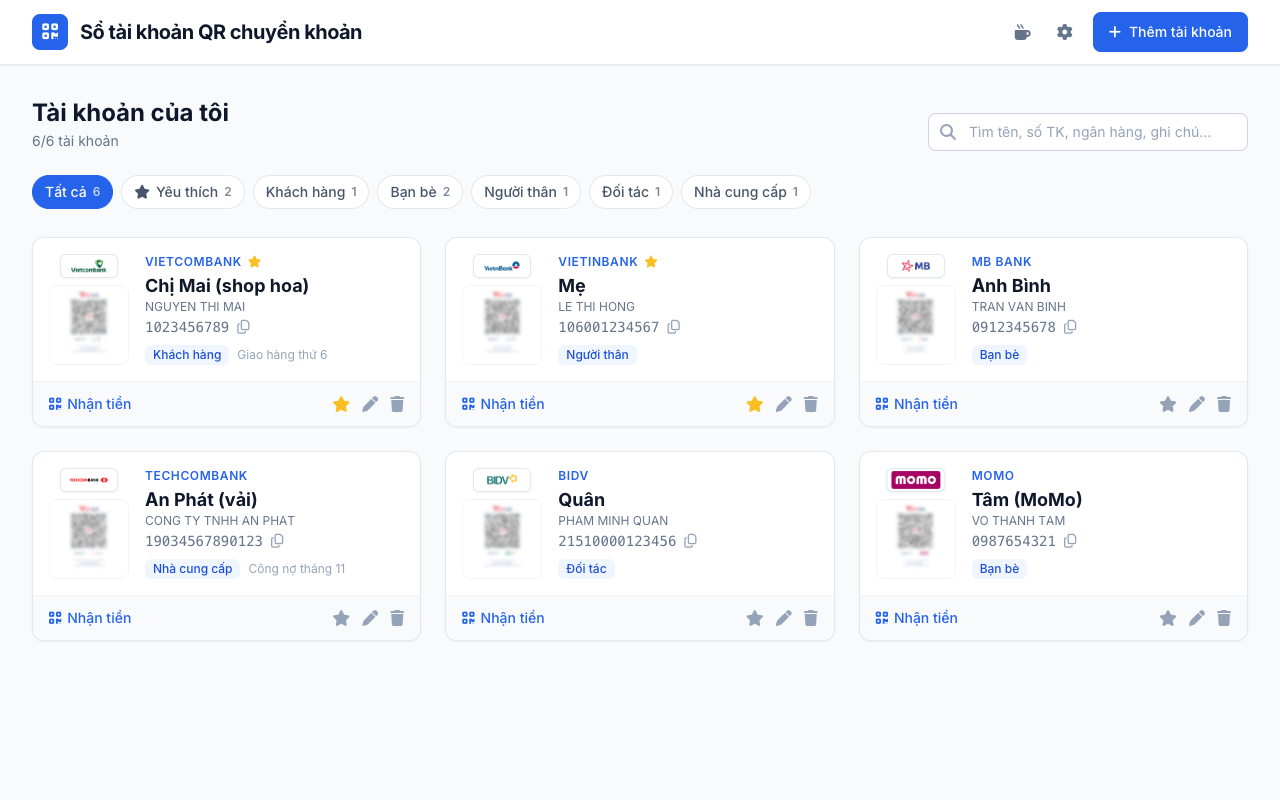
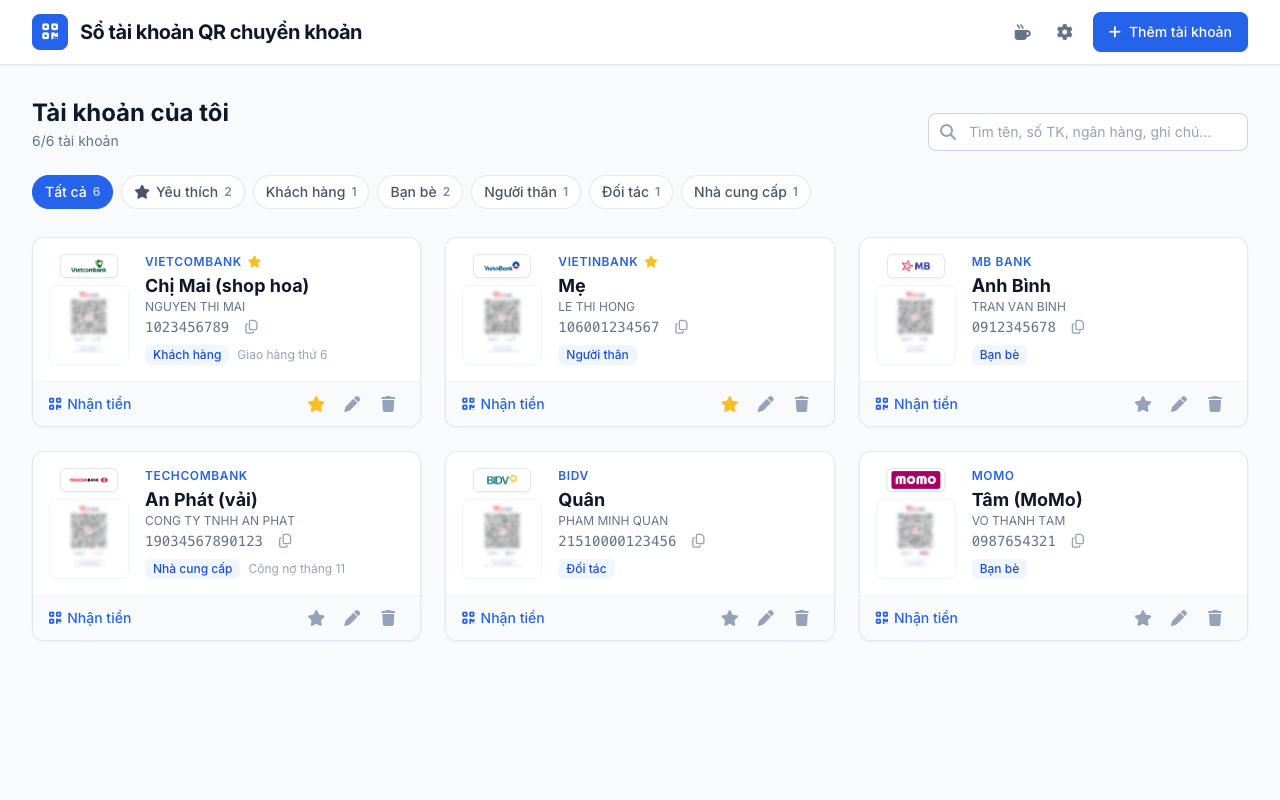
feat: UX/AX fixes for the Tailwind build and design guidance
Card and dialog targets at least 28px, two-line product name on narrow
widths, card thumbnails clear on touch screens, reduced motion for hover
transitions, first-run hint styles; add DESIGN.md, REVIEW.md, AGENTS.md,
the UX/AX review report with screenshots, refreshed store screenshots and
a phone-friendly privacy policy. Bump version to 1.2.5.

diff --git a/docs/store/privacy-policy.html b/docs/store/privacy-policy.html
@@ -3,6 +3,7 @@
 <head>
   <meta charset="utf-8">
   <meta name="viewport" content="width=device-width, initial-scale=1">
[1 lines of base64/hex data omitted]
   <title>Chính sách quyền riêng tư · Sổ tài khoản QR chuyển khoản</title>
   <style>
     :root { color-scheme: light; --text: #0f172a; --muted: #475569; --line: #e2e8f0; --accent: #2563eb; }
@@ -21,12 +22,22 @@
     th { background: #f1f5f9; color: var(--text); }
     td { color: var(--muted); background: #fff; }
     a { color: var(--accent); }
+    /* Phones: each table row becomes a stacked card with its column name as a label. */
+    @media (max-width: 600px) {
+      table, tbody, tr, td { display: block; width: 100%; }
+      tr:first-child { display: none; }
+      tr { margin: 0 0 12px; border: 1px solid var(--line); border-radius: 10px; overflow: hidden; background: #fff; }
+      td { border: 0; border-top: 1px solid var(--line); }
+      tr td:first-child { border-top: 0; font-weight: 600; color: var(--text); background: #f1f5f9; }
+      td::before { content: attr(data-label); display: block; font-size: 12px; font-weight: 700; color: var(--text); text-transform: uppercase; letter-spacing: .04em; }
+      tr td:first-child::before { display: none; }
+    }
   </style>
 </head>
 <body>
 <main>
   <h1>Chính sách quyền riêng tư</h1>
-  <p class="meta">Sổ tài khoản QR chuyển khoản (Chrome extension) · Cập nhật: 24/11/2026 · Áp dụng từ phiên bản 1.2.4</p>
+  <p class="meta">Sổ tài khoản QR chuyển khoản (Chrome extension) · Cập nhật: 24/11/2026 · Áp dụng từ phiên bản 1.2.5</p>
 
   <span class="lang">Tiếng Việt</span>
 
@@ -44,11 +55,11 @@
   <h3>Khi nào dữ liệu được gửi đi</h3>
   <table>
     <tr><th>Tính năng</th><th>Gửi tới</th><th>Dữ liệu</th><th>Khi nào</th></tr>
-    <tr><td>Ảnh thẻ VietQR chính thức</td><td>img.vietqr.io</td><td>Mã ngân hàng (BIN), số tài khoản, tên chủ tài khoản, số tiền, nội dung</td><td>Khi mở mã QR, nếu bật "Dùng ảnh thẻ chính thức từ img.vietqr.io" trong Cài đặt (bật sẵn; tắt thì thẻ được vẽ hoàn toàn trên máy)</td></tr>
-    <tr><td>Logo ngân hàng</td><td>api.vietqr.io</td><td>Chỉ mã ngân hàng, không có dữ liệu cá nhân</td><td>Khi hiển thị danh sách, nếu cho phép ảnh từ VietQR.io</td></tr>
-    <tr><td>Tra tên chủ tài khoản</td><td>api.vietqr.io</td><td>Mã ngân hàng và số tài khoản, kèm API key của bạn</td><td>Chỉ khi bạn nhập API key VietQR.io và bấm "Tra tên" hoặc quét mã QR không có tên</td></tr>
-    <tr><td>Đồng bộ Google Sheet</td><td>Apps Script do chính bạn triển khai (script.google.com)</td><td>Toàn bộ sổ tài khoản và cài đặt</td><td>Chỉ khi bạn bật; dữ liệu nằm trong Google Sheet của bạn</td></tr>
-    <tr><td>Sao lưu Google Drive</td><td>Google Drive của bạn (www.googleapis.com)</td><td>Toàn bộ sổ tài khoản và cài đặt, trong file <code>so-tai-khoan-vietqr.json</code></td><td>Chỉ khi bạn bật và đăng nhập Google; quyền <code>drive.file</code> chỉ cho phép đụng tới file do tiện ích tạo</td></tr>
+    <tr><td data-label="Tính năng">Ảnh thẻ VietQR chính thức</td><td data-label="Gửi tới">img.vietqr.io</td><td data-label="Dữ liệu">Mã ngân hàng (BIN), số tài khoản, tên chủ tài khoản, số tiền, nội dung</td><td data-label="Khi nào">Khi mở mã QR, nếu bật "Dùng ảnh thẻ chính thức từ img.vietqr.io" trong Cài đặt (bật sẵn; tắt thì thẻ được vẽ hoàn toàn trên máy)</td></tr>
+    <tr><td data-label="Tính năng">Logo ngân hàng</td><td data-label="Gửi tới">api.vietqr.io</td><td data-label="Dữ liệu">Chỉ mã ngân hàng, không có dữ liệu cá nhân</td><td data-label="Khi nào">Khi hiển thị danh sách, nếu cho phép ảnh từ VietQR.io</td></tr>
+    <tr><td data-label="Tính năng">Tra tên chủ tài khoản</td><td data-label="Gửi tới">api.vietqr.io</td><td data-label="Dữ liệu">Mã ngân hàng và số tài khoản, kèm API key của bạn</td><td data-label="Khi nào">Chỉ khi bạn nhập API key VietQR.io và bấm "Tra tên" hoặc quét mã QR không có tên</td></tr>
+    <tr><td data-label="Tính năng">Đồng bộ Google Sheet</td><td data-label="Gửi tới">Apps Script do chính bạn triển khai (script.google.com)</td><td data-label="Dữ liệu">Toàn bộ sổ tài khoản và cài đặt</td><td data-label="Khi nào">Chỉ khi bạn bật; dữ liệu nằm trong Google Sheet của bạn</td></tr>
+    <tr><td data-label="Tính năng">Sao lưu Google Drive</td><td data-label="Gửi tới">Google Drive của bạn (www.googleapis.com)</td><td data-label="Dữ liệu">Toàn bộ sổ tài khoản và cài đặt, trong file <code>so-tai-khoan-vietqr.json</code></td><td data-label="Khi nào">Chỉ khi bạn bật và đăng nhập Google; quyền <code>drive.file</code> chỉ cho phép đụng tới file do tiện ích tạo</td></tr>
   </table>
   <p>Các quyền truy cập tên miền trên đều là <strong>quyền tuỳ chọn</strong>: Chrome chỉ hỏi bạn khi bạn bật tính năng tương ứng.</p>
 
@@ -84,11 +95,11 @@
   <h3>When data is sent</h3>
   <table>
     <tr><th>Feature</th><th>Sent to</th><th>Data</th><th>When</th></tr>
-    <tr><td>Official VietQR card image</td><td>img.vietqr.io</td><td>Bank BIN, account number, holder name, amount, message</td><td>When a QR is opened, if "Use the official card image from img.vietqr.io" is on in Settings (on by default; when off, the card is drawn entirely on your device)</td></tr>
-    <tr><td>Bank logos</td><td>api.vietqr.io</td><td>Bank code only, no personal data</td><td>When the list is shown, if VietQR.io images are allowed</td></tr>
-    <tr><td>Account holder lookup</td><td>api.vietqr.io</td><td>Bank BIN and account number, with your own API key</td><td>Only if you enter a VietQR.io API key and press "Tra tên" (look up) or scan a QR without a name</td></tr>
-    <tr><td>Google Sheet sync</td><td>Your own Apps Script deployment (script.google.com)</td><td>The whole account book and settings</td><td>Only when you turn it on; the data lives in your Google Sheet</td></tr>
-    <tr><td>Google Drive backup</td><td>Your Google Drive (www.googleapis.com)</td><td>The whole account book and settings, in <code>so-tai-khoan-vietqr.json</code></td><td>Only when you turn it on and sign in; the <code>drive.file</code> scope only reaches files the extension created</td></tr>
+    <tr><td data-label="Feature">Official VietQR card image</td><td data-label="Sent to">img.vietqr.io</td><td data-label="Data">Bank BIN, account number, holder name, amount, message</td><td data-label="When">When a QR is opened, if "Use the official card image from img.vietqr.io" is on in Settings (on by default; when off, the card is drawn entirely on your device)</td></tr>
+    <tr><td data-label="Feature">Bank logos</td><td data-label="Sent to">api.vietqr.io</td><td data-label="Data">Bank code only, no personal data</td><td data-label="When">When the list is shown, if VietQR.io images are allowed</td></tr>
+    <tr><td data-label="Feature">Account holder lookup</td><td data-label="Sent to">api.vietqr.io</td><td data-label="Data">Bank BIN and account number, with your own API key</td><td data-label="When">Only if you enter a VietQR.io API key and press "Tra tên" (look up) or scan a QR without a name</td></tr>
+    <tr><td data-label="Feature">Google Sheet sync</td><td data-label="Sent to">Your own Apps Script deployment (script.google.com)</td><td data-label="Data">The whole account book and settings</td><td data-label="When">Only when you turn it on; the data lives in your Google Sheet</td></tr>
+    <tr><td data-label="Feature">Google Drive backup</td><td data-label="Sent to">Your Google Drive (www.googleapis.com)</td><td data-label="Data">The whole account book and settings, in <code>so-tai-khoan-vietqr.json</code></td><td data-label="When">Only when you turn it on and sign in; the <code>drive.file</code> scope only reaches files the extension created</td></tr>
   </table>
   <p>All of these hosts are <strong>optional permissions</strong>: Chrome asks you only when you turn the matching feature on.</p>
 

diff --git a/src/styles/app.css b/src/styles/app.css
@@ -52,6 +52,15 @@
   /* Navbar "Thêm tài khoản": full label on wide tab view, icon-only "+" in the popup. */
   .nav-add { @apply hidden md:inline-flex; }
   .nav-add-label { @apply hidden md:inline; }
+  /* Product name: one line when there is room; on phones and in the 420px popup it splits
+     into a small "Sổ tài khoản" over a bold "QR chuyển khoản" so it is never cut off. */
+  .brand-title { @apply min-w-0 font-bold text-lg md:text-xl tracking-tight text-slate-900 leading-tight; }
+  @media (max-width: 639px) {
+    .brand-title { @apply flex flex-col text-base; }
+    .brand-kicker { @apply text-[11px] font-semibold uppercase tracking-wider text-slate-500; }
+  }
+  body:not(.tab-view) .brand-title { @apply flex flex-col text-base; }
+  body:not(.tab-view) .brand-kicker { @apply text-[11px] font-semibold uppercase tracking-wider text-slate-500; }
   body:not(.tab-view) .nav-add { @apply inline-flex w-9 h-9 p-0; }
   body:not(.tab-view) #btnAddFab { @apply hidden; }
 
@@ -85,17 +94,26 @@
   .account-card { @apply bg-white rounded-xl shadow-sm border border-slate-200 overflow-hidden hover:shadow-md transition-shadow flex flex-col; }
   .card-thumb { @apply relative w-20 h-20 shrink-0 bg-white rounded-lg p-0.5 border border-slate-100 overflow-hidden flex items-end justify-center; }
   /* VietQR card picture: faded and slightly blurred until the card is hovered or focused. */
-  .card-thumb-image { @apply w-full h-full object-contain object-bottom opacity-60 blur-[1.5px] transition duration-200 group-hover:opacity-100 group-hover:blur-0 group-focus-within:opacity-100 group-focus-within:blur-0; }
+  .card-thumb-image { @apply w-full h-full object-contain object-bottom transition duration-200; }
+  /* Faded until hovered only where hovering exists; touch screens always show the card clearly. */
+  @media (hover: hover) {
+    .card-thumb-image { @apply opacity-60 blur-[1.5px] group-hover:opacity-100 group-hover:blur-0 group-focus-within:opacity-100 group-focus-within:blur-0; }
+  }
   /* VietQR.io logos are wide (about 8:3): fixed height, width follows. */
   .bank-logo { @apply shrink-0 h-5 w-auto max-w-[56px] object-contain rounded-sm bg-white; }
   /* Full-tab card: the bank logo sits centred above the QR picture, level with the bank name. */
   .card-logo-badge { @apply absolute top-0 left-1/2 -translate-x-1/2 z-10 h-6 max-w-[64px] px-1 py-0.5 rounded-md border border-slate-200 shadow-sm; }
   .card-thumb canvas { @apply opacity-90 group-hover:opacity-100 transition-opacity; }
   .card-thumb-overlay { @apply absolute inset-0 flex items-center justify-center bg-black/10 text-white opacity-0 group-hover:opacity-100 transition-opacity; }
-  .card-icon { @apply text-slate-400 transition-colors; }
+  /* Card actions: icons keep their size, the hit area is at least 32px (WCAG 2.5.8 asks 24px). */
+  .card-icon { @apply inline-flex items-center justify-center w-8 h-8 rounded-lg text-slate-400 hover:bg-slate-100 transition-colors; }
+  .card-copy { @apply inline-flex items-center justify-center w-7 h-7 -my-1 rounded-md text-slate-400 hover:text-blue-600 hover:bg-blue-50 transition-colors; }
+  .card-receive { @apply inline-flex items-center gap-1.5 -ml-2 px-2 py-1.5 rounded-lg text-sm font-medium text-blue-600 hover:text-blue-800 hover:bg-blue-50 transition-colors; }
   .card-icon.is-fav { @apply text-amber-400 hover:text-amber-500; }
   .tag { @apply shrink-0 text-xs font-medium px-2 py-0.5 rounded-md bg-blue-50 text-blue-700; }
   .empty-state { @apply col-span-full flex flex-col items-center justify-center py-16 text-center; }
+  .empty-hints { @apply mt-6 mx-auto max-w-md grid gap-2 text-left text-sm text-slate-600 list-none p-0; }
+  .empty-hint { @apply px-3.5 py-2.5 rounded-lg bg-white border border-slate-200; }
   .sync-badge { @apply block mt-1 text-xs text-left text-slate-500 hover:underline max-w-full truncate; }
   .sync-badge.ok { @apply text-green-600; }
   .sync-badge.err { @apply text-red-600; }
@@ -213,7 +231,10 @@
   .modal-qrc .modal-head { @apply absolute top-3 right-3 p-0 z-10; }
   .modal-qrc .modal-head h2 { @apply sr-only; }
   .qrc-sheet { @apply flex flex-col items-center gap-4 pt-4; }
+  .about-line { @apply mt-1 pt-3 border-t border-slate-200 text-xs text-slate-500 text-center; } /* Settings footer: version + privacy */
+  .about-line a { @apply text-blue-600 hover:underline; }
   .qrc-head { @apply text-center; }
+  .qrc-intro { @apply m-0 px-3 py-2.5 rounded-xl bg-amber-50 text-amber-900 text-sm leading-snug text-center; } /* donate dialog line */
   .qrc-bank { @apply text-2xl font-bold text-slate-900; }
   .qrc-holder { @apply mt-0.5 text-sm text-slate-500 uppercase; }
   .qrc-card { @apply relative w-64 min-h-[200px] p-2 grid place-items-center bg-white rounded-xl border border-slate-100 shadow-[0_0_15px_rgba(0,0,0,0.1)]; }
@@ -225,11 +246,12 @@
   .qrc-row { @apply flex justify-between items-center mb-1; }
   .qrc-label { @apply text-sm text-slate-500; }
   .qrc-number { @apply flex items-center gap-2 text-lg font-bold text-slate-900; }
-  .qrc-copy { @apply text-blue-600 hover:text-blue-800 p-1 rounded transition-colors; }
+  .qrc-copy { @apply inline-flex items-center justify-center w-8 h-8 -my-1 text-blue-600 hover:text-blue-800 hover:bg-blue-50 rounded-lg transition-colors; }
   .qrc-panel .field-hint { @apply mt-0; }
   .modal-qrc .modal-foot { @apply flex-col items-stretch gap-2; }
   .qrc-download { @apply w-full py-3 text-base rounded-xl; }
-  .qrc-secondary { @apply flex justify-center gap-5; }
+  .qrc-secondary { @apply flex justify-center gap-3; }
+  .qrc-secondary .link-btn { @apply inline-flex items-center min-h-[28px] px-2 rounded-md hover:bg-blue-50; } /* 24px+ targets */
   body:not(.tab-view) .modal-qrc .modal-foot .btn.qrc-download { @apply text-sm py-3; }
 
   /* Scan strip and camera */
@@ -262,7 +284,9 @@
 
 @keyframes fade-in { from { opacity: 0; } }
 @keyframes pop-in { from { opacity: 0; transform: scale(0.95); } }
+/* Reduced motion: no dialog pop or fade and no hover or blur transitions; focus rings and
+   the loading spinner stay. */
 @media (prefers-reduced-motion: reduce) {
   .backdrop, .modal { animation: none; }
-  .toast { transition: none; }
+  *, *::before, *::after { transition-duration: 0.01ms !important; scroll-behavior: auto !important; }
 }

diff --git a/src/account-list-view.js b/src/account-list-view.js
@@ -9,6 +9,7 @@ import { drawQr } from '@shared/qr-image-renderer.js';
 import { el, ICONS, bankLogo } from './ui-helpers.js';
 import { vietqrImageUrl } from '@shared/qr-print-card.js';
 import { compactAccountRow } from './account-row-compact.js';
+import { firstRunHints } from '@shared/empty-state-hints.js';
 
 export { FILTER_ALL, FILTER_FAVORITE, filterAccounts, allGroups };
 
@@ -108,7 +109,7 @@ function accountCard(account, handlers, settings) {
         el('div', { class: 'text-slate-500 font-mono text-sm mt-0.5 flex items-center gap-2' },
           el('span', {}, account.accountNumber),
           el('button', {
-            type: 'button', class: 'text-slate-400 hover:text-blue-600 transition-colors',
+            type: 'button', class: 'card-copy',
             title: named('Sao chép số tài khoản của'), 'aria-label': named('Sao chép số tài khoản của'),
             html: ICONS.copy, onclick: () => handlers.onCopy(account),
           })),
@@ -117,12 +118,12 @@ function accountCard(account, handlers, settings) {
           account.note ? el('span', { class: 'text-xs text-slate-400 truncate' }, account.note) : null),
       ),
     ),
-    el('div', { class: 'bg-slate-50 px-4 py-2.5 flex justify-between items-center' },
+    el('div', { class: 'bg-slate-50 px-4 py-1.5 flex justify-between items-center' },
       el('button', {
-        type: 'button', class: 'text-sm font-medium text-blue-600 hover:text-blue-800 transition-colors flex items-center gap-1.5',
+        type: 'button', class: 'card-receive',
         onclick: () => handlers.onOpenQr(account),
       }, el('span', { html: ICONS.qr }), 'Nhận tiền'),
-      el('div', { class: 'flex gap-3' },
+      el('div', { class: 'flex gap-1' },
         actionButton('star', account.favorite ? named('Bỏ yêu thích') : named('Yêu thích'), () => handlers.onToggleFavorite(account), account.favorite ? 'is-fav' : 'hover:text-amber-500'),
         actionButton('edit', named('Sửa'), () => handlers.onEdit(account), 'hover:text-amber-600'),
         actionButton('trash', named('Xoá'), () => handlers.onDelete(account), 'hover:text-red-600'),
@@ -140,7 +141,8 @@ export function renderAccountList(container, accounts, handlers, { hasAny, query
       el('p', { class: 'text-slate-500 mt-1 mb-6' }, searching
         ? `Không có tài khoản nào phù hợp${query ? ` với “${query}”` : ' trong nhóm này'}.`
         : 'Thêm số tài khoản ngân hàng đầu tiên để tạo mã VietQR.'),
-      searching ? null : el('button', { type: 'button', class: 'btn btn-primary px-6', onclick: handlers.onAdd }, 'Thêm tài khoản ngay'),
+      searching ? null : el('button', { type: 'button', class: 'btn btn-primary px-6', onclick: () => handlers.onAdd() }, 'Thêm tài khoản ngay'),
+      searching ? null : firstRunHints(settings, handlers),
     ));
     return;
   }

diff --git a/popup.html b/popup.html
@@ -13,7 +13,7 @@
         <div class="bg-blue-600 text-white w-9 h-9 rounded-lg flex items-center justify-center shrink-0">
           <i class="fa-solid fa-qrcode text-lg"></i>
         </div>
-        <span class="font-bold text-lg md:text-xl tracking-tight text-slate-900 truncate">Sổ tài khoản QR chuyển khoản</span>
+        <span class="brand-title" title="Sổ tài khoản QR chuyển khoản"><span class="brand-kicker">Sổ tài khoản</span> <span class="brand-main">QR chuyển khoản</span></span>
       </div>
       <div class="flex items-center gap-1.5">
         <button id="btnOpenTab" class="nav-icon" type="button" title="Mở toàn màn hình" aria-label="Mở toàn màn hình"></button>

diff --git a/DESIGN.md b/DESIGN.md
@@ -1,0 +1,57 @@
+# DESIGN — Sổ tài khoản QR chuyển khoản
+
+**Bản chất:** một sổ tay ngân hàng gọn gàng, đáng tin, giúp tạo mã chuyển khoản trong một cú bấm.
+
+## Hướng thiết kế
+
+- Giao diện sản phẩm (product UI), không phải trang marketing: gọn, rõ, một hành động chính cho mỗi màn.
+- Popup 420px là nơi dùng nhiều nhất: dòng thu gọn, hành động chính là nút QR nền xanh. Chế độ toàn tab dùng thẻ lớn có ảnh thẻ VietQR thu nhỏ.
+- Ảnh thẻ VietQR là điểm nhận diện: thẻ trong hộp thoại, ảnh thu nhỏ trên thẻ tài khoản, logo ngân hàng cạnh tên.
+
+## Token (Tailwind 3, `src/styles/app.css`)
+
+| Nhóm | Giá trị |
+|---|---|
+| Màu nhấn | `blue-600` cho hành động chính, lựa chọn và focus; `blue-50` cho nền nhạt |
+| Trung tính | dải `slate` (nền `slate-50`, chữ `slate-900`, chữ phụ `slate-500`, viền `slate-200`) |
+| Ấm | `amber` chỉ cho yêu thích (ngôi sao) và nút mời cà phê |
+| Chữ | Inter 400/500/600/700 (`@fontsource/inter`); số tài khoản dùng `font-mono` |
+| Bo góc | 8px (`rounded-lg`) cho nút và ô nhập; 12px (`rounded-xl`) cho thẻ và hộp thoại; tròn cho chip |
+| Bóng | `shadow-sm` cho thẻ; bóng lớn chỉ cho lớp phủ (hộp thoại, danh sách thả xuống) |
+| Biểu tượng | Font Awesome 6 solid/regular, một nét |
+
+## Quy tắc thành phần
+
+- **Vùng bấm:** tối thiểu 24×24px (WCAG 2.2, tiêu chí 2.5.8), nên 32px; nút chính 40–44px. Tăng vùng bấm bằng padding, không phóng to biểu tượng.
+- **Form:** không để control mặc định của trình duyệt.
+  - Dropdown có chevron.
+  - Danh sách dài là combobox gõ để lọc (`bank-combobox.js`).
+  - Checkbox tự vẽ.
+  - Thanh cuộn mảnh.
+- **Trạng thái:** mỗi phần tử tương tác có hover, `focus-visible` (vòng `blue-500`), active và disabled; hành động có toast phản hồi (`aria-live`).
+- **Trạng thái trống:** nói rõ cái gì sẽ ở đây và đưa hành động đầu tiên, kèm gợi ý lần đầu (`empty-state-hints.js`).
+- **Tên sản phẩm:** một dòng khi đủ chỗ; dưới 640px và trong popup thì tách hai dòng ("Sổ tài khoản" nhỏ trên, "QR chuyển khoản" đậm dưới), không bao giờ bị cắt "…".
+
+## Chuyển động
+
+- 150–250ms, `ease-out` khi mở; chỉ animate `opacity` và `transform`.
+- Hộp thoại: `fade-in` nền + `pop-in` 200ms.
+- `prefers-reduced-motion: reduce`: tắt animation hộp thoại và transition; giữ vòng focus và con xoay đang tải.
+- Ảnh thẻ thu nhỏ chỉ mờ-tới-rõ khi rê chuột ở thiết bị có chuột (`@media (hover: hover)`).
+
+## Kích thước kiểm tra
+
+Popup 420×600 · điện thoại 375×812 · máy tính bảng 768×1024 · máy tính 1440×900.
+
+## Giọng văn
+
+Tiếng Việt ngắn gọn, nói kết quả cho người dùng ("Tải mã QR", "Nhận tiền", "Sao chép thông tin"). Nội dung chuyển khoản trong mã QR không dấu. Không quảng cáo, không thúc ép; nút ủng hộ luôn ghi rõ là tự nguyện.
+
+## Nên / không nên
+
+| Nên | Không nên |
+|---|---|
+| Một hành động chính nổi bật mỗi dòng hoặc mỗi thẻ | Nhiều nút cùng màu xanh tranh nhau |
+| Logo ngân hàng kèm tên, tooltip khi chỉ có logo | Chỉ có logo mà không có tên hoặc tooltip |
+| Giữ dữ liệu trên máy, nói rõ khi gửi đi đâu | Gửi dữ liệu ra ngoài khi người dùng chưa bật |
+| "mã VietQR" để mô tả chuẩn hỗ trợ | Dùng "VietQR" trong tên sản phẩm (thương hiệu của NAPAS) |

diff --git a/REVIEW.md b/REVIEW.md
@@ -1,0 +1,38 @@
+# REVIEW — checklist UX/AX
+
+Dùng khi review mọi thay đổi giao diện của tiện ích. Thay đổi giao diện phải kèm ảnh chụp ở đủ 4 kích thước.
+
+## Kích thước bắt buộc
+
+| Tên | Kích thước | Ghi chú |
+|---|---|---|
+| Popup | 420×600 | Chế độ dùng chính. Ngoài Chrome, giả lập bằng cách tiêm `chrome.runtime` và `chrome.storage.session` trước khi trang tải |
+| Điện thoại | 375×812 | Chế độ toàn tab |
+| Máy tính bảng | 768×1024 | |
+| Máy tính | 1440×900 | |
+
+Màn cần chụp: danh sách, hộp thoại mã QR, form thêm tài khoản (danh sách ngân hàng mở), Cài đặt, hộp thoại mời cà phê, trạng thái trống.
+
+## Rubric (0–3 mỗi mục, dưới 2 phải có đề xuất)
+
+1. Ấn tượng đầu tiên: trong 5 giây biết đây là gì và bấm vào đâu.
+2. Nhận diện: tên không bị cắt, màu nhấn và ảnh thẻ VietQR nhất quán.
+3. Nội dung: nhãn nói kết quả, không thừa chữ.
+4. Rõ ràng: một hành động chính mỗi màn.
+5. Hướng dẫn lần đầu: trạng thái trống có hành động và gợi ý.
+6. Tin cậy: phiên bản và chính sách quyền riêng tư trong Cài đặt.
+7. Chuyển động: 150–250ms, tôn trọng `prefers-reduced-motion`.
+8. Responsive: không tràn ngang, không cắt chữ, không chồng lấn.
+9. Truy cập: vùng bấm ≥ 24px, `focus-visible`, nhãn cho nút chỉ có biểu tượng, toast `aria-live`.
+10. Cảm giác hiệu năng: popup mở nhanh, OCR chỉ tải khi quét, ảnh `loading="lazy"`.
+
+## Kiểm tra tự động
+
+- `npm run build` thành công.
+- Script đo: `document.documentElement.scrollWidth - clientWidth === 0`, và không phần tử bấm được nào nhỏ hơn 24×24px ở cả 4 kích thước.
+- Trang chính sách: `node render-check.mjs <privacy-policy.html>` (skill `ak-frontend-design`) báo "no findings" ở 375, 768, 1440px.
+
+## Bề mặt công khai (AX)
+
+- Chính sách quyền riêng tư: `https://qaqeqe0.github.io/so-tai-khoan-qr-privacy/` (repo `qaqeqe0/so-tai-khoan-qr-privacy`, file `index.html` chép từ `docs/store/privacy-policy.html`). Phải trả về 200 cho OAI-SearchBot và Claude-SearchBot.
+- Hồ sơ Chrome Web Store: `docs/store/chrome-web-store-listing.md`; ảnh store tạo lại khi giao diện đổi.

diff --git a/AGENTS.md b/AGENTS.md
@@ -1,0 +1,9 @@
+# AGENTS — hướng dẫn cho agent làm việc trong repo này
+
+- Repo có hai nhánh cần clone cạnh nhau: `main` (thư mục `vietqr-account-manager-vite`, bản Tailwind) và `plain` (thư mục `vietqr-account-manager-extension`, toàn bộ logic dùng chung). Xem `README.md`.
+- **Trước khi sửa giao diện:** đọc [DESIGN.md](DESIGN.md) (token, quy tắc thành phần, chuyển động, giọng văn).
+- **Sau khi sửa giao diện:** kiểm tra theo [REVIEW.md](REVIEW.md) ở đủ 4 kích thước (popup 420×600, 375×812, 768×1024, 1440×900) và đính ảnh chụp.
+- Sửa logic dùng chung ở nhánh `plain` (`src/`), rồi chạy `npm run build` ở đây. Bản Vite chỉ thay phần hiển thị (`popup.html`, `src/ui-helpers.js`, `src/account-list-view.js`, `src/account-row-compact.js`, `src/styles/app.css`).
+- Khi sửa `docs/store/privacy-policy.html`, chép nội dung sang `index.html` của repo `qaqeqe0/so-tai-khoan-qr-privacy` (GitHub Pages) để trang công khai cập nhật.
+- Khi giao diện đổi đáng kể, chụp lại ảnh store trong `docs/store/screenshots/` (1280×800) và cập nhật `docs/store/chrome-web-store-listing.md`.
+- Không đổi tên file sao lưu Drive `so-tai-khoan-vietqr.json` hay khoá lưu trữ `vietqrAccountManager`: dữ liệu cũ của người dùng phụ thuộc vào chúng.

diff --git a/docs/store/chrome-web-store-listing.md b/docs/store/chrome-web-store-listing.md
@@ -1,6 +1,6 @@
-# Hồ sơ đăng Chrome Web Store — Sổ tài khoản QR chuyển khoản 1.2.4
+# Hồ sơ đăng Chrome Web Store — Sổ tài khoản QR chuyển khoản 1.2.5
 
-Nội dung để dán vào [Chrome Web Store Developer Dashboard](https://chrome.google.com/webstore/devconsole). File nộp: `vietqr-account-manager-vite-v1.2.4.zip` (build từ nhánh `main`, chạy `npm run zip`).
+Nội dung để dán vào [Chrome Web Store Developer Dashboard](https://chrome.google.com/webstore/devconsole). File nộp: `vietqr-account-manager-vite-v1.2.5.zip` (build từ nhánh `main`, chạy `npm run zip`).
 
 ## 1. Trước khi nộp
 
